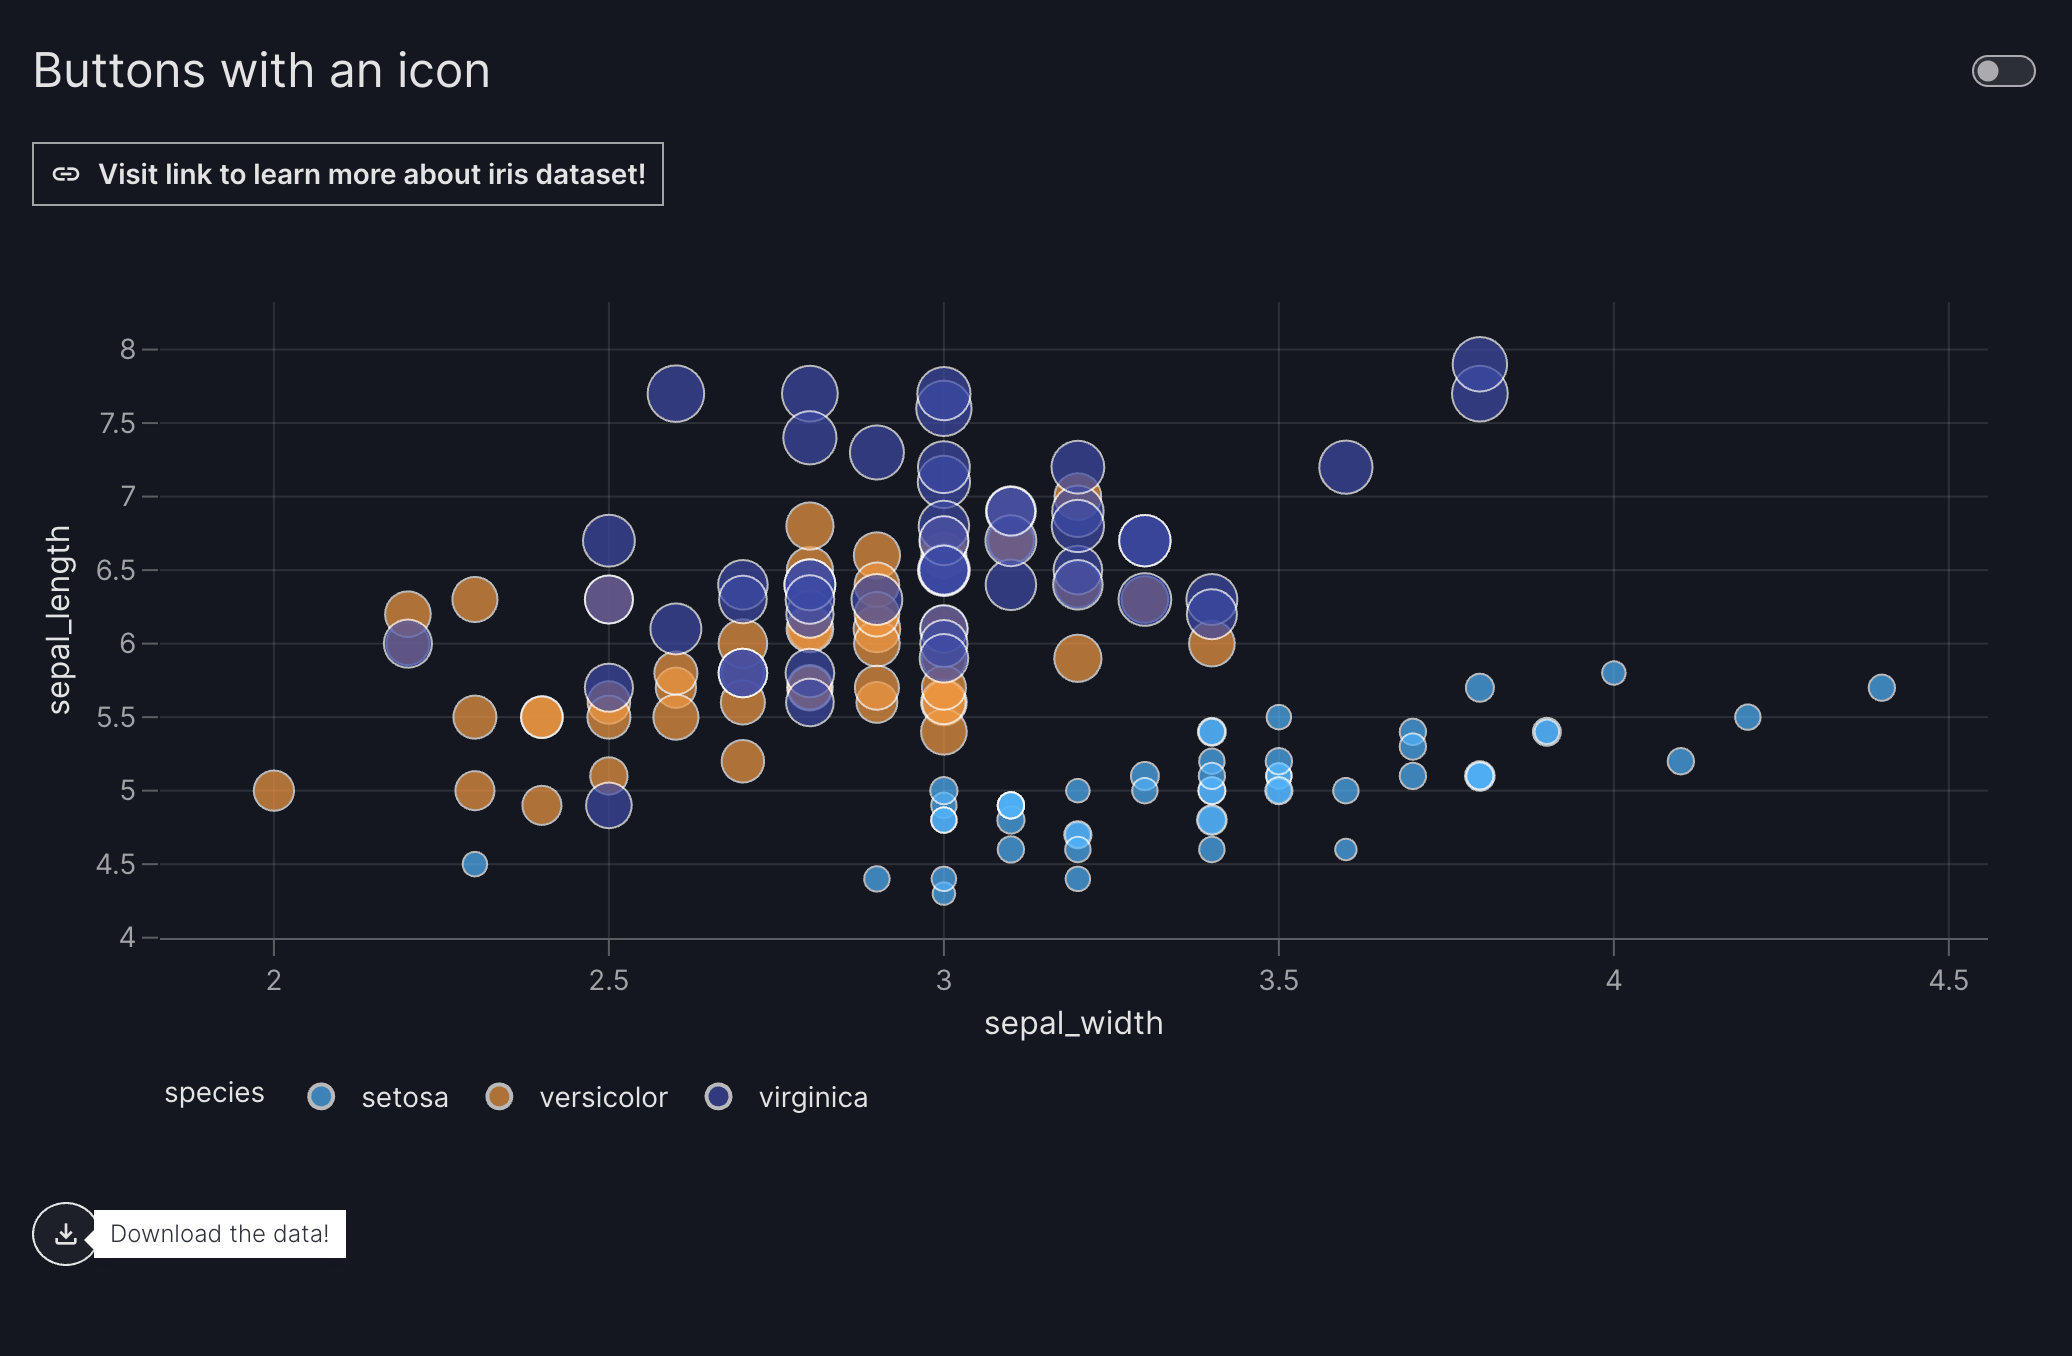
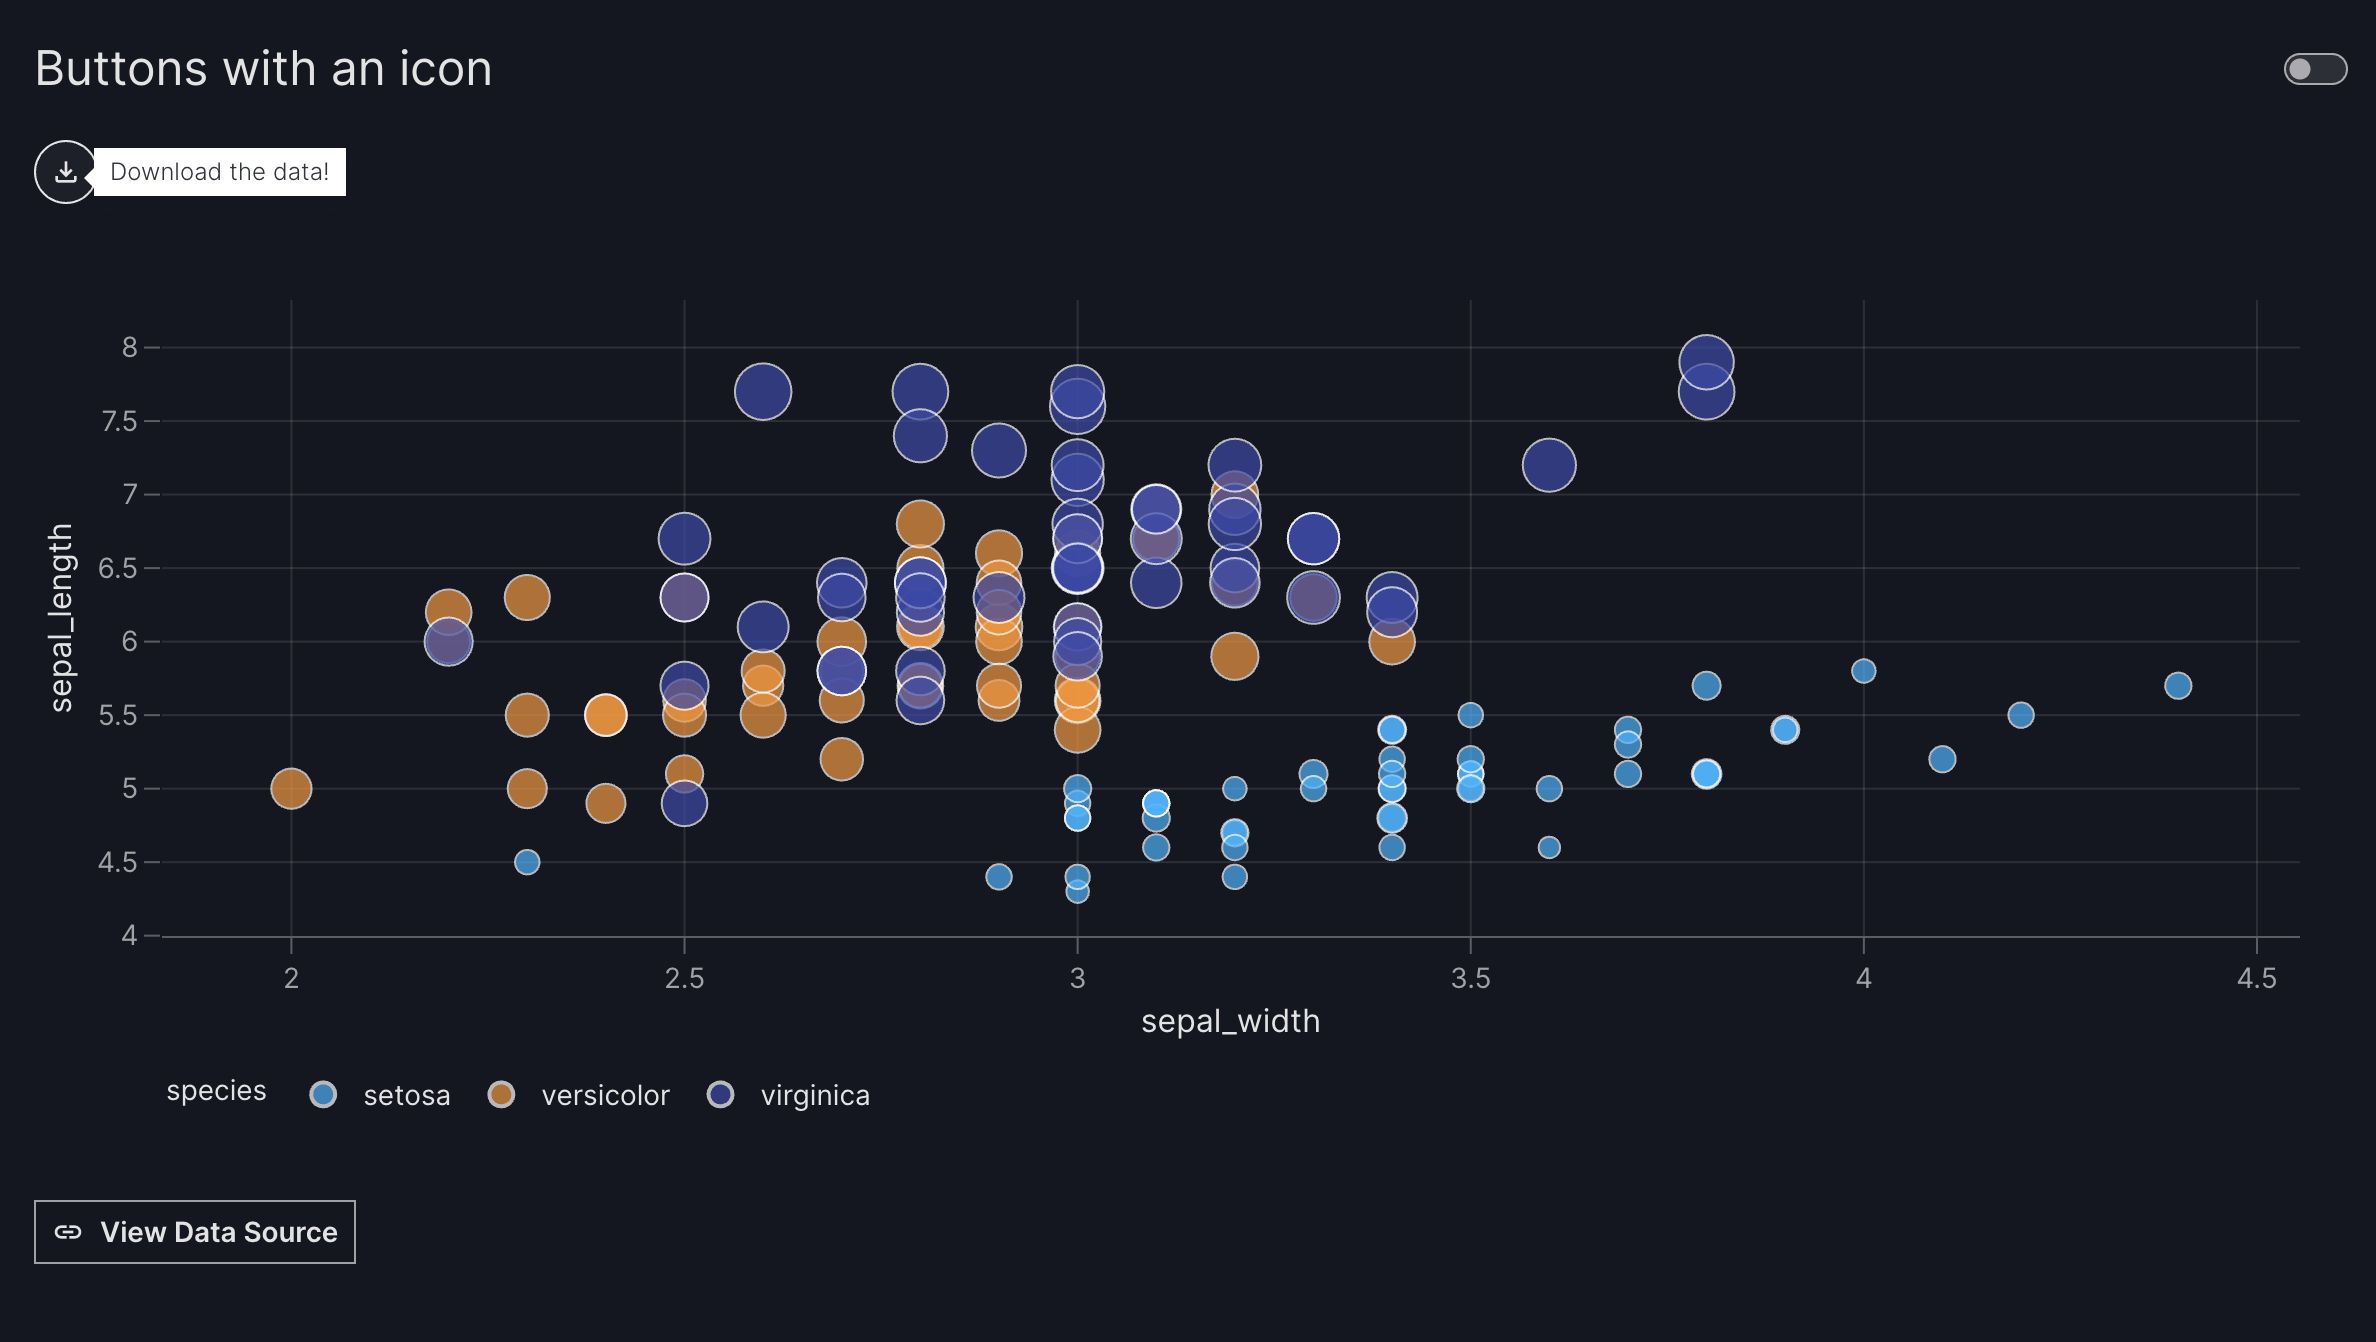
pr comments

diff --git a/vizro-core/src/vizro/static/css/tooltip.css b/vizro-core/src/vizro/static/css/tooltip.css
@@ -24,7 +24,7 @@
   color: var(--text-primaryHover-inverted);
 }
 
-.form-label, .button-text {
+.form-label, .btn-text {
   align-items: center;
   display: flex;
   gap: 0.5rem;
@@ -32,20 +32,20 @@
 
 /* We differentiate between 3 different icon sizes: 16px, 20px and 24px. 20px is our default.
 Use 16px for all text. Use 20px for all headings. */
-.form-label .tooltip-icon, .button-text .tooltip-icon {
+.form-label .tooltip-icon, .btn-text .tooltip-icon {
   font-size: 1rem;
 }
 
-.button-text .tooltip-icon {
+.btn-text .tooltip-icon {
   color: inherit;
 }
 
-.btn-link .button-text:last-child {
+.btn-link .btn-text:last-child {
   display: inline;
   text-decoration: none;
 }
 
-.btn-link .button-text .tooltip-icon {
+.btn-link .btn-text .tooltip-icon {
   margin-left:0.5rem;
   vertical-align: text-bottom;
 }

diff --git a/vizro-core/src/vizro/static/css/layout.css b/vizro-core/src/vizro/static/css/layout.css
@@ -294,6 +294,8 @@ Current logic:
   gap: 12px;
 }
 
-.circular_button {
+.btn-circular {
   border-radius: 50%;
+  height: 32px;
+  width: 32px;
 }

diff --git a/vizro-core/tests/unit/vizro/models/_components/test_button.py b/vizro-core/tests/unit/vizro/models/_components/test_button.py
@@ -14,7 +14,7 @@ class TestButtonInstantiation:
     """Tests model instantiation and the validators run at that time."""
 
     def test_create_default_button_mandatory_only(self):
-        button = vm.Button(text="Click me!")
+        button = vm.Button()
         assert hasattr(button, "id")
         assert button.type == "button"
         assert button.text == "Click me!"
@@ -51,7 +51,7 @@ class TestButtonInstantiation:
         }
 
     def test_set_action_via_validator(self):
-        button = vm.Button(actions=[vm.Action(function=export_data())], text="Export data")
+        button = vm.Button(actions=[vm.Action(function=export_data())])
         actions_chain = button.actions[0]
         assert actions_chain.trigger.component_property == "n_clicks"
 
@@ -70,7 +70,7 @@ class TestBuildMethod:
         assert_component_equal(
             result,
             dbc.Button(
-                html.Span([None, "Click me!", None], className="button-text"),
+                html.Span([None, "Click me!", None], className="btn-text"),
                 id="button",
                 href="",
                 target="_top",
@@ -81,13 +81,11 @@ class TestBuildMethod:
 
     def test_button_build_with_extra(self):
         """Test that extra arguments correctly override defaults."""
-        result = vm.Button(
-            id="button", text="Click me!", extra={"color": "success", "outline": True, "href": "www.google.com"}
-        ).build()
+        result = vm.Button(id="button", extra={"color": "success", "outline": True, "href": "www.google.com"}).build()
         assert_component_equal(
             result,
             dbc.Button(
-                html.Span([None, "Click me!", None], className="button-text"),
+                html.Span([None, "Click me!", None], className="btn-text"),
                 id="button",
                 color="success",
                 outline=True,
@@ -104,7 +102,7 @@ class TestBuildMethod:
             button,
             dbc.Button(
                 id="button_id",
-                children=html.Span([None, "My text!", None], className="button-text"),
+                children=html.Span([None, "My text!", None], className="btn-text"),
                 href="www.google.com",
                 target="_top",
                 color="primary",
@@ -123,7 +121,7 @@ class TestBuildMethod:
         assert_component_equal(
             result,
             dbc.Button(
-                children=html.Span([None, "Click me!", None], className="button-text"),
+                children=html.Span([None, "Click me!", None], className="btn-text"),
                 href="",
                 target="_top",
                 color=expected_color,
@@ -153,7 +151,7 @@ class TestBuildMethod:
         assert_component_equal(
             result,
             dbc.Button(
-                html.Span([None, "Click me", *expected_description], className="button-text"),
+                html.Span([None, "Click me", *expected_description], className="btn-text"),
                 id="button",
                 href="",
                 target="_top",
@@ -164,7 +162,7 @@ class TestBuildMethod:
 
     @pytest.mark.parametrize(
         "icon, text, class_name",
-        [("home", "Test", ""), ("home", "", "circular_button")],
+        [("home", "Test", ""), ("home", "", "btn-circular")],
     )
     def test_button_build_with_icon(self, icon, text, class_name):
         button = vm.Button(id="button_id", icon=icon, text=text).build()
@@ -174,7 +172,7 @@ class TestBuildMethod:
             button,
             dbc.Button(
                 id="button_id",
-                children=html.Span([expected_icon, f"{text}", None], className="button-text"),
+                children=html.Span([expected_icon, f"{text}", None], className="btn-text"),
                 target="_top",
                 href="",
                 color="primary",

diff --git a/vizro-core/src/vizro/models/_components/button.py b/vizro-core/src/vizro/models/_components/button.py
@@ -2,7 +2,7 @@ from typing import Annotated, Any, Literal, Optional
 
 import dash_bootstrap_components as dbc
 from dash import get_relative_path, html
-from pydantic import AfterValidator, BeforeValidator, Field
+from pydantic import AfterValidator, BeforeValidator, Field, ValidationInfo
 from pydantic.functional_serializers import PlainSerializer
 from pydantic.json_schema import SkipJsonSchema
 
@@ -13,12 +13,13 @@ from vizro.models._tooltip import coerce_str_to_tooltip
 from vizro.models.types import ActionType, _IdProperty
 
 
-def validate_text(text, info):
+def validate_text(text, info: ValidationInfo):
     icon = info.data.get("icon")
 
-    if text or icon:
-        return text
-    raise ValueError("Please provide either the text or icon argument.")
+    if not text and not icon:
+        raise ValueError("Please provide either the text or icon argument.")
+
+    return text
 
 
 class Button(VizroBaseModel):
@@ -26,9 +27,9 @@ class Button(VizroBaseModel):
 
     Args:
         type (Literal["button"]): Defaults to `"button"`.
+        icon (str): Icon name from [Google Material icons library](https://fonts.google.com/icons). Defaults to `""`.
         text (str): Text to be displayed on button. Needs to have at least 1 character. Defaults to `"Click me!"`.
         href (str): URL (relative or absolute) to navigate to. Defaults to `""`.
-        icon (str): Icon name from [Google Material icons library](https://fonts.google.com/icons).
         actions (list[ActionType]): See [`ActionType`][vizro.models.types.ActionType]. Defaults to `[]`.
         variant (Literal["plain", "filled", "outlined"]): Predefined styles to choose from. Options are `plain`,
             `filled` or `outlined`. Defaults to `filled`.
@@ -109,13 +110,13 @@ class Button(VizroBaseModel):
 
         defaults = {
             "id": self.id,
-            "children": html.Span([*icon, self.text, *description], className="button-text"),
+            "children": html.Span([*icon, self.text, *description], className="btn-text"),
             "href": get_relative_path(self.href) if self.href.startswith("/") else self.href,
             "target": "_top",
             # dbc.Button includes `btn btn-primary` as a class by default and appends any class names provided.
             # To prevent unnecessary class chaining, the button's style variant should be specified using `color`.
             "color": variants[self.variant],
-            "class_name": "circular_button" if self.icon and not self.text else "",
+            "class_name": "btn-circular" if self.icon and not self.text else "",
         }
 
         return dbc.Button(**(defaults | self.extra))
@@ -126,6 +127,9 @@ class Button(VizroBaseModel):
 
         description = self.description.build().children
         if not self.text:
-            description = [description[1]]
-            description[0].target = f"{self.id}-icon"
+            description_tooltip = description[1]
+            # if text="" tooltip icon is not rendered, in which case the target for the tooltip moves to the button icon
+            description_tooltip.target = f"{self.id}-icon"
+            return [description_tooltip]
+
         return description

diff --git a/vizro-core/examples/scratch_dev/app.py b/vizro-core/examples/scratch_dev/app.py
@@ -12,11 +12,11 @@ page = vm.Page(
     layout=vm.Flex(),
     components=[
         vm.Button(
-            text="Visit link to learn more about iris dataset!",
-            href="https://www.kaggle.com/datasets/uciml/iris",
-            icon="link",
-            variant="outlined",
+            icon="download",
+            text="",
             description="Download the data!",
+            variant="outlined",
+            actions=[vm.Action(function=export_data())],
         ),
         vm.Graph(
             figure=px.scatter(
@@ -28,11 +28,10 @@ page = vm.Page(
             ),
         ),
         vm.Button(
-            icon="download",
-            text="",
-            description="Download the data!",
+            text="View Data Source",
+            href="https://www.kaggle.com/datasets/uciml/iris",
+            icon="link",
             variant="outlined",
-            actions=[vm.Action(function=export_data())],
         ),
     ],
 )

diff --git a/vizro-core/tests/unit/vizro/actions/test_export_data.py b/vizro-core/tests/unit/vizro/actions/test_export_data.py
@@ -49,7 +49,7 @@ def target_data_filtered_pop(request, gapminder_2007):
 @pytest.fixture
 def managers_one_page_without_graphs_one_button():
     """Instantiates a simple model_manager and data_manager with a page, and no graphs."""
-    vm.Page(id="test_page", title="My first dashboard", components=[vm.Button(id="button", text="Click me!")])
+    vm.Page(id="test_page", title="My first dashboard", components=[vm.Button(id="button")])
     Vizro._pre_build()
 
 

diff --git a/vizro-core/tests/unit/vizro/actions/conftest.py b/vizro-core/tests/unit/vizro/actions/conftest.py
@@ -67,7 +67,7 @@ def managers_one_page_two_graphs_one_button(box_chart, scatter_chart):
         components=[
             vm.Graph(id="box_chart", figure=box_chart),
             vm.Graph(id="scatter_chart", figure=scatter_chart),
-            vm.Button(id="button", text="test"),
+            vm.Button(id="button"),
         ],
     )
     Vizro._pre_build()

diff --git a/vizro-core/docs/pages/user-guides/button.md b/vizro-core/docs/pages/user-guides/button.md
@@ -250,7 +250,7 @@ You can use it alongside the `text` argument, or on its own to create a circular
 
     === "app.py"
 
-        ```{.python pycafe-link hl_lines="11 24"}
+        ```{.python pycafe-link hl_lines="9 25"}
         import vizro.models as vm
         from vizro import Vizro
 
@@ -259,9 +259,8 @@ You can use it alongside the `text` argument, or on its own to create a circular
             layout=vm.Flex(),
             components=[
                 vm.Button(
-                    text="Visit link to learn more!",
-                    href="https://www.kaggle.com/datasets/uciml/iris",
-                    icon="link",
+                    icon="download",
+                    description="Download the data!",
                     variant="outlined",
                 ),
                 vm.Graph(
@@ -274,8 +273,9 @@ You can use it alongside the `text` argument, or on its own to create a circular
                     ),
                 ),
                 vm.Button(
-                    icon="download",
-                    description="Download the data!",
+                    text="View Data Source",
+                    href="https://www.kaggle.com/datasets/uciml/iris",
+                    icon="link",
                     variant="outlined",
                 ),
             ],
@@ -292,10 +292,11 @@ You can use it alongside the `text` argument, or on its own to create a circular
           - title: Buttons with an icon
             components:
               - type: button
-                text: Visit link to learn more!
-                href: https://www.kaggle.com/datasets/uciml/iris
-                icon: link
-                variant: outlined
+                icon: download
+                description: Download the data!
+                actions:
+                  - function:
+                      _target_: export_data
               - figure:
                   _target_: scatter
                   x: sepal_width
@@ -305,11 +306,10 @@ You can use it alongside the `text` argument, or on its own to create a circular
                   data_frame: iris
                 type: graph
               - type: button
-                icon: download
-                description: Download the data!
-                actions:
-                  - function:
-                      _target_: export_data
+                text: Visit link to learn more!
+                href: https://www.kaggle.com/datasets/uciml/iris
+                icon: link
+                variant: outlined
         ```
 
     === "Result"

diff --git a/vizro-core/changelog.d/20250813_150653_nadija_ratkusic_graca_add_icon_argument.md b/vizro-core/changelog.d/20250813_150653_nadija_ratkusic_graca_add_icon_argument.md
@@ -16,12 +16,12 @@ Uncomment the section that is right (remove the HTML comment wrapper).
 - A bullet item for the Removed category with a link to the relevant PR at the end of your entry, e.g. Enable feature XXX. ([#1](https://github.com/mckinsey/vizro/pull/1))
 
 -->
-<!--
+
 ### Added
 
-- A bullet item for the Added category with a link to the relevant PR at the end of your entry, e.g. Enable feature XXX. ([#1](https://github.com/mckinsey/vizro/pull/1))
+- Add `icon` argument to `vm.Button`, allowing any icon from the [Google Material Icons library](https://fonts.google.com/icons) to be displayed inside the `vm.Button`. ([#1341](https://github.com/mckinsey/vizro/pull/1341))
 
--->
+
 <!--
 ### Changed
 

diff --git a/vizro-core/changelog.d/20250730_124911_nadija_ratkusic_graca_update_dbc_links.md b/vizro-core/changelog.d/20250730_124911_nadija_ratkusic_graca_update_dbc_links.md
@@ -17,11 +17,12 @@ Uncomment the section that is right (remove the HTML comment wrapper).
 
 -->
 
+<!--
 ### Added
 
-- Enabled `icon` argument in `vm.Button` which enables users to add any icon from [Google Material Icons library](https://fonts.google.com/icons) ([#1](https://github.com/mckinsey/vizro/pull/1))
+- A bullet item for the Added category with a link to the relevant PR at the end of your entry, e.g. Enable feature XXX. ([#1](https://github.com/mckinsey/vizro/pull/1))
 
-
+-->
 <!--
 ### Changed
 
